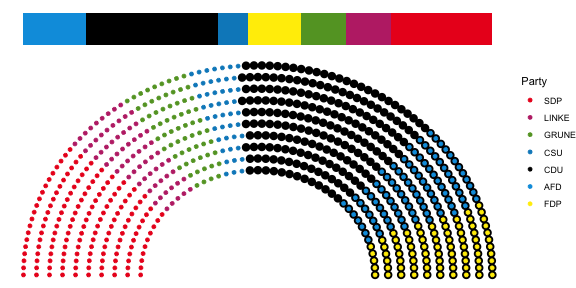
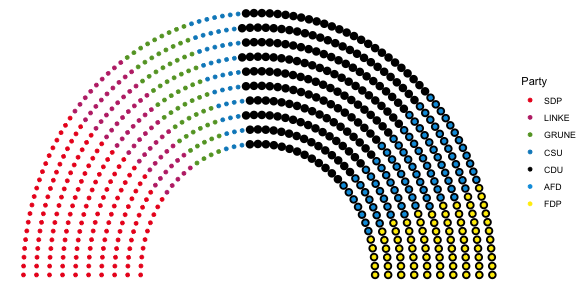
update readme

diff --git a/README.md b/README.md
@@ -121,7 +121,6 @@ ggplot(germany, aes(x,
                     colour = party_short)) +
   geom_parliament_seats() +
   geom_highlight_government(government == 1) + 
-  geom_parliament_bar(colour = colour, party = party_short) +
   labs(colour="Party") +  
   theme_ggparliament(legend = TRUE) +
   scale_colour_manual(values = germany$colour, 
